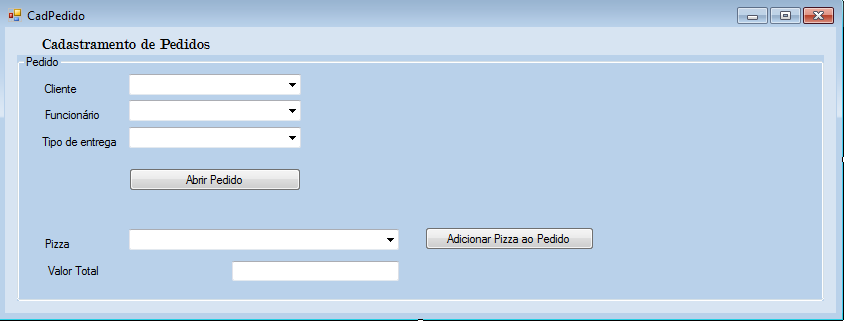
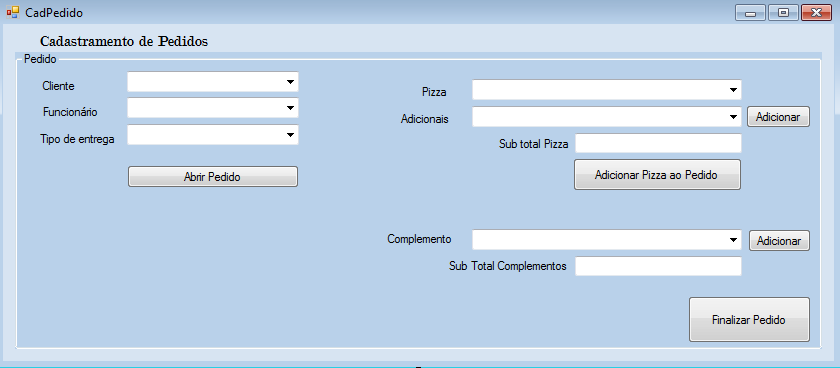
atualização
alterações

diff --git a/Pizzaria_Management_VIEW/CadPedido.Designer.cs b/Pizzaria_Management_VIEW/CadPedido.Designer.cs
@@ -30,6 +30,7 @@
         {
             this.label1 = new System.Windows.Forms.Label();
             this.groupBox1 = new System.Windows.Forms.GroupBox();
+            this.button3 = new System.Windows.Forms.Button();
             this.button2 = new System.Windows.Forms.Button();
             this.comboBox4 = new System.Windows.Forms.ComboBox();
             this.label6 = new System.Windows.Forms.Label();
@@ -42,7 +43,14 @@
             this.label3 = new System.Windows.Forms.Label();
             this.label2 = new System.Windows.Forms.Label();
             this.comboBox1 = new System.Windows.Forms.ComboBox();
-            this.button3 = new System.Windows.Forms.Button();
+            this.button4 = new System.Windows.Forms.Button();
+            this.textBox2 = new System.Windows.Forms.TextBox();
+            this.label7 = new System.Windows.Forms.Label();
+            this.comboBox5 = new System.Windows.Forms.ComboBox();
+            this.label8 = new System.Windows.Forms.Label();
+            this.label9 = new System.Windows.Forms.Label();
+            this.comboBox6 = new System.Windows.Forms.ComboBox();
+            this.button5 = new System.Windows.Forms.Button();
             this.groupBox1.SuspendLayout();
             this.SuspendLayout();
             // 
@@ -50,9 +58,10 @@
             // 
             this.label1.AutoSize = true;
             this.label1.Font = new System.Drawing.Font("Modern No. 20", 12F, System.Drawing.FontStyle.Regular, System.Drawing.GraphicsUnit.Point, ((byte)(0)));
-            this.label1.Location = new System.Drawing.Point(45, 9);
+            this.label1.Location = new System.Drawing.Point(34, 7);
+            this.label1.Margin = new System.Windows.Forms.Padding(2, 0, 2, 0);
             this.label1.Name = "label1";
-            this.label1.Size = new System.Drawing.Size(219, 22);
+            this.label1.Size = new System.Drawing.Size(176, 18);
             this.label1.TabIndex = 14;
             this.label1.Text = "Cadastramento de Pedidos";
             // 
@@ -62,6 +71,14 @@
             | System.Windows.Forms.AnchorStyles.Left) 
             | System.Windows.Forms.AnchorStyles.Right)));
             this.groupBox1.BackColor = System.Drawing.SystemColors.GradientActiveCaption;
+            this.groupBox1.Controls.Add(this.button5);
+            this.groupBox1.Controls.Add(this.comboBox6);
+            this.groupBox1.Controls.Add(this.label9);
+            this.groupBox1.Controls.Add(this.button4);
+            this.groupBox1.Controls.Add(this.textBox2);
+            this.groupBox1.Controls.Add(this.label7);
+            this.groupBox1.Controls.Add(this.comboBox5);
+            this.groupBox1.Controls.Add(this.label8);
             this.groupBox1.Controls.Add(this.button3);
             this.groupBox1.Controls.Add(this.button2);
             this.groupBox1.Controls.Add(this.comboBox4);
@@ -75,21 +92,28 @@
             this.groupBox1.Controls.Add(this.label3);
             this.groupBox1.Controls.Add(this.label2);
             this.groupBox1.Controls.Add(this.comboBox1);
-            this.groupBox1.Location = new System.Drawing.Point(16, 34);
-            this.groupBox1.Margin = new System.Windows.Forms.Padding(4, 4, 4, 4);
+            this.groupBox1.Location = new System.Drawing.Point(12, 28);
             this.groupBox1.Name = "groupBox1";
-            this.groupBox1.Padding = new System.Windows.Forms.Padding(4, 4, 4, 4);
-            this.groupBox1.Size = new System.Drawing.Size(1076, 303);
+            this.groupBox1.Size = new System.Drawing.Size(807, 297);
             this.groupBox1.TabIndex = 15;
             this.groupBox1.TabStop = false;
             this.groupBox1.Text = "Pedido";
             // 
+            // button3
+            // 
+            this.button3.Location = new System.Drawing.Point(673, 244);
+            this.button3.Name = "button3";
+            this.button3.Size = new System.Drawing.Size(123, 47);
+            this.button3.TabIndex = 12;
+            this.button3.Text = "Finalizar Pedido";
+            this.button3.UseVisualStyleBackColor = true;
+            this.button3.Click += new System.EventHandler(this.button3_Click);
+            // 
             // button2
             // 
-            this.button2.Location = new System.Drawing.Point(544, 212);
-            this.button2.Margin = new System.Windows.Forms.Padding(4, 4, 4, 4);
+            this.button2.Location = new System.Drawing.Point(558, 106);
             this.button2.Name = "button2";
-            this.button2.Size = new System.Drawing.Size(225, 28);
+            this.button2.Size = new System.Drawing.Size(169, 33);
             this.button2.TabIndex = 11;
             this.button2.Text = "Adicionar Pizza ao Pedido";
             this.button2.UseVisualStyleBackColor = true;
@@ -100,47 +124,42 @@
             this.comboBox4.Items.AddRange(new object[] {
             "No Local",
             "Delivery"});
-            this.comboBox4.Location = new System.Drawing.Point(149, 89);
-            this.comboBox4.Margin = new System.Windows.Forms.Padding(4, 4, 4, 4);
+            this.comboBox4.Location = new System.Drawing.Point(112, 72);
             this.comboBox4.Name = "comboBox4";
-            this.comboBox4.Size = new System.Drawing.Size(228, 24);
+            this.comboBox4.Size = new System.Drawing.Size(172, 21);
             this.comboBox4.TabIndex = 10;
             // 
             // label6
             // 
             this.label6.AutoSize = true;
-            this.label6.Location = new System.Drawing.Point(29, 98);
-            this.label6.Margin = new System.Windows.Forms.Padding(4, 0, 4, 0);
+            this.label6.Location = new System.Drawing.Point(22, 80);
             this.label6.Name = "label6";
-            this.label6.Size = new System.Drawing.Size(109, 17);
+            this.label6.Size = new System.Drawing.Size(82, 13);
             this.label6.TabIndex = 9;
             this.label6.Text = "Tipo de entrega";
             // 
             // textBox1
             // 
             this.textBox1.Enabled = false;
-            this.textBox1.Location = new System.Drawing.Point(287, 254);
-            this.textBox1.Margin = new System.Windows.Forms.Padding(4, 4, 4, 4);
+            this.textBox1.Location = new System.Drawing.Point(560, 81);
             this.textBox1.Name = "textBox1";
-            this.textBox1.Size = new System.Drawing.Size(221, 22);
+            this.textBox1.Size = new System.Drawing.Size(167, 20);
             this.textBox1.TabIndex = 8;
             // 
             // label5
             // 
             this.label5.AutoSize = true;
-            this.label5.Location = new System.Drawing.Point(37, 257);
-            this.label5.Margin = new System.Windows.Forms.Padding(4, 0, 4, 0);
+            this.label5.Location = new System.Drawing.Point(383, 60);
             this.label5.Name = "label5";
-            this.label5.Size = new System.Drawing.Size(77, 17);
+            this.label5.Size = new System.Drawing.Size(55, 13);
             this.label5.TabIndex = 7;
-            this.label5.Text = "Valor Total";
+            this.label5.Text = "Adicionais";
             // 
             // button1
             // 
-            this.button1.Location = new System.Drawing.Point(149, 139);
-            this.button1.Margin = new System.Windows.Forms.Padding(4, 4, 4, 4);
+            this.button1.Location = new System.Drawing.Point(112, 113);
             this.button1.Name = "button1";
-            this.button1.Size = new System.Drawing.Size(229, 28);
+            this.button1.Size = new System.Drawing.Size(172, 23);
             this.button1.TabIndex = 6;
             this.button1.Text = "Abrir Pedido";
             this.button1.UseVisualStyleBackColor = true;
@@ -150,80 +169,133 @@
             // 
             this.comboBox3.Enabled = false;
             this.comboBox3.FormattingEnabled = true;
-            this.comboBox3.Location = new System.Drawing.Point(149, 214);
-            this.comboBox3.Margin = new System.Windows.Forms.Padding(4, 4, 4, 4);
+            this.comboBox3.Location = new System.Drawing.Point(457, 27);
             this.comboBox3.Name = "comboBox3";
-            this.comboBox3.Size = new System.Drawing.Size(359, 24);
+            this.comboBox3.Size = new System.Drawing.Size(270, 21);
             this.comboBox3.TabIndex = 5;
             // 
             // label4
             // 
             this.label4.AutoSize = true;
-            this.label4.Location = new System.Drawing.Point(33, 224);
-            this.label4.Margin = new System.Windows.Forms.Padding(4, 0, 4, 0);
+            this.label4.Location = new System.Drawing.Point(404, 33);
             this.label4.Name = "label4";
-            this.label4.Size = new System.Drawing.Size(42, 17);
+            this.label4.Size = new System.Drawing.Size(32, 13);
             this.label4.TabIndex = 4;
             this.label4.Text = "Pizza";
             // 
             // comboBox2
             // 
             this.comboBox2.FormattingEnabled = true;
-            this.comboBox2.Location = new System.Drawing.Point(149, 55);
-            this.comboBox2.Margin = new System.Windows.Forms.Padding(4, 4, 4, 4);
+            this.comboBox2.Location = new System.Drawing.Point(112, 45);
             this.comboBox2.Name = "comboBox2";
-            this.comboBox2.Size = new System.Drawing.Size(228, 24);
+            this.comboBox2.Size = new System.Drawing.Size(172, 21);
             this.comboBox2.TabIndex = 3;
             // 
             // label3
             // 
             this.label3.AutoSize = true;
-            this.label3.Location = new System.Drawing.Point(33, 65);
-            this.label3.Margin = new System.Windows.Forms.Padding(4, 0, 4, 0);
+            this.label3.Location = new System.Drawing.Point(25, 53);
             this.label3.Name = "label3";
-            this.label3.Size = new System.Drawing.Size(82, 17);
+            this.label3.Size = new System.Drawing.Size(62, 13);
             this.label3.TabIndex = 2;
             this.label3.Text = "Funcionário";
             // 
             // label2
             // 
             this.label2.AutoSize = true;
-            this.label2.Location = new System.Drawing.Point(33, 33);
-            this.label2.Margin = new System.Windows.Forms.Padding(4, 0, 4, 0);
+            this.label2.Location = new System.Drawing.Point(25, 27);
             this.label2.Name = "label2";
-            this.label2.Size = new System.Drawing.Size(51, 17);
+            this.label2.Size = new System.Drawing.Size(39, 13);
             this.label2.TabIndex = 1;
             this.label2.Text = "Cliente";
             // 
             // comboBox1
             // 
             this.comboBox1.FormattingEnabled = true;
-            this.comboBox1.Location = new System.Drawing.Point(149, 23);
-            this.comboBox1.Margin = new System.Windows.Forms.Padding(4, 4, 4, 4);
+            this.comboBox1.Location = new System.Drawing.Point(112, 19);
             this.comboBox1.Name = "comboBox1";
-            this.comboBox1.Size = new System.Drawing.Size(228, 24);
+            this.comboBox1.Size = new System.Drawing.Size(172, 21);
             this.comboBox1.TabIndex = 0;
             // 
-            // button3
+            // button4
             // 
-            this.button3.Location = new System.Drawing.Point(927, 267);
-            this.button3.Margin = new System.Windows.Forms.Padding(4);
-            this.button3.Name = "button3";
-            this.button3.Size = new System.Drawing.Size(141, 28);
-            this.button3.TabIndex = 12;
-            this.button3.Text = "Finalizar Pedido";
-            this.button3.UseVisualStyleBackColor = true;
-            this.button3.Click += new System.EventHandler(this.button3_Click);
+            this.button4.Location = new System.Drawing.Point(731, 53);
+            this.button4.Name = "button4";
+            this.button4.Size = new System.Drawing.Size(65, 23);
+            this.button4.TabIndex = 17;
+            this.button4.Text = "Adicionar";
+            this.button4.UseVisualStyleBackColor = true;
+            // 
+            // textBox2
+            // 
+            this.textBox2.Enabled = false;
+            this.textBox2.Location = new System.Drawing.Point(560, 204);
+            this.textBox2.Name = "textBox2";
+            this.textBox2.Size = new System.Drawing.Size(167, 20);
+            this.textBox2.TabIndex = 16;
+            // 
+            // label7
+            // 
+            this.label7.AutoSize = true;
+            this.label7.Location = new System.Drawing.Point(431, 207);
+            this.label7.Name = "label7";
+            this.label7.Size = new System.Drawing.Size(125, 13);
+            this.label7.TabIndex = 15;
+            this.label7.Text = "Sub Total Complementos";
+            // 
+            // comboBox5
+            // 
+            this.comboBox5.Enabled = false;
+            this.comboBox5.FormattingEnabled = true;
+            this.comboBox5.Location = new System.Drawing.Point(457, 54);
+            this.comboBox5.Name = "comboBox5";
+            this.comboBox5.Size = new System.Drawing.Size(270, 21);
+            this.comboBox5.TabIndex = 14;
+            // 
+            // label8
+            // 
+            this.label8.AutoSize = true;
+            this.label8.Location = new System.Drawing.Point(370, 180);
+            this.label8.Name = "label8";
+            this.label8.Size = new System.Drawing.Size(71, 13);
+            this.label8.TabIndex = 13;
+            this.label8.Text = "Complemento";
+            // 
+            // label9
+            // 
+            this.label9.AutoSize = true;
+            this.label9.Location = new System.Drawing.Point(481, 85);
+            this.label9.Name = "label9";
+            this.label9.Size = new System.Drawing.Size(77, 13);
+            this.label9.TabIndex = 18;
+            this.label9.Text = "Sub total Pizza";
+            // 
+            // comboBox6
+            // 
+            this.comboBox6.Enabled = false;
+            this.comboBox6.FormattingEnabled = true;
+            this.comboBox6.Location = new System.Drawing.Point(457, 177);
+            this.comboBox6.Name = "comboBox6";
+            this.comboBox6.Size = new System.Drawing.Size(270, 21);
+            this.comboBox6.TabIndex = 19;
+            // 
+            // button5
+            // 
+            this.button5.Location = new System.Drawing.Point(733, 177);
+            this.button5.Name = "button5";
+            this.button5.Size = new System.Drawing.Size(63, 23);
+            this.button5.TabIndex = 20;
+            this.button5.Text = "Adicionar";
+            this.button5.UseVisualStyleBackColor = true;
             // 
             // CadPedido
             // 
-            this.AutoScaleDimensions = new System.Drawing.SizeF(8F, 16F);
+            this.AutoScaleDimensions = new System.Drawing.SizeF(6F, 13F);
             this.AutoScaleMode = System.Windows.Forms.AutoScaleMode.Font;
             this.BackColor = System.Drawing.SystemColors.GradientInactiveCaption;
-            this.ClientSize = new System.Drawing.Size(1108, 352);
+            this.ClientSize = new System.Drawing.Size(831, 337);
             this.Controls.Add(this.groupBox1);
             this.Controls.Add(this.label1);
-            this.Margin = new System.Windows.Forms.Padding(4, 4, 4, 4);
             this.Name = "CadPedido";
             this.StartPosition = System.Windows.Forms.FormStartPosition.CenterParent;
             this.Text = "CadPedido";
@@ -252,5 +324,13 @@
         private System.Windows.Forms.TextBox textBox1;
         private System.Windows.Forms.Label label5;
         private System.Windows.Forms.Button button3;
+        private System.Windows.Forms.Button button5;
+        private System.Windows.Forms.ComboBox comboBox6;
+        private System.Windows.Forms.Label label9;
+        private System.Windows.Forms.Button button4;
+        private System.Windows.Forms.TextBox textBox2;
+        private System.Windows.Forms.Label label7;
+        private System.Windows.Forms.ComboBox comboBox5;
+        private System.Windows.Forms.Label label8;
     }
 }

diff --git a/DAL/Properties/Settings.Designer.cs b/DAL/Properties/Settings.Designer.cs
@@ -26,7 +26,7 @@ namespace DAL.Properties {
         [global::System.Configuration.ApplicationScopedSettingAttribute()]
         [global::System.Diagnostics.DebuggerNonUserCodeAttribute()]
         [global::System.Configuration.SpecialSettingAttribute(global::System.Configuration.SpecialSetting.ConnectionString)]
-        [global::System.Configuration.DefaultSettingValueAttribute("Data Source=LAB01M07\\SQLEXPRESS;Initial Catalog=Pizzaria_Management;Integrated Se" +
+        [global::System.Configuration.DefaultSettingValueAttribute("Data Source=LAB01M09\\SQLEXPRESS;Initial Catalog=Pizzaria_Management;Integrated Se" +
             "curity=True")]
         public string CS1 {
             get {

diff --git a/DAL/Persistence/Conexao.cs b/DAL/Persistence/Conexao.cs
@@ -15,7 +15,7 @@ namespace DAL.Model
 
         protected void AbrirConexao()
         {
-            con = new SqlConnection(Properties.Settings.Default.CS2);
+            con = new SqlConnection(Properties.Settings.Default.CS1);
             con.Open();
         }
         protected void FecharConexao()
